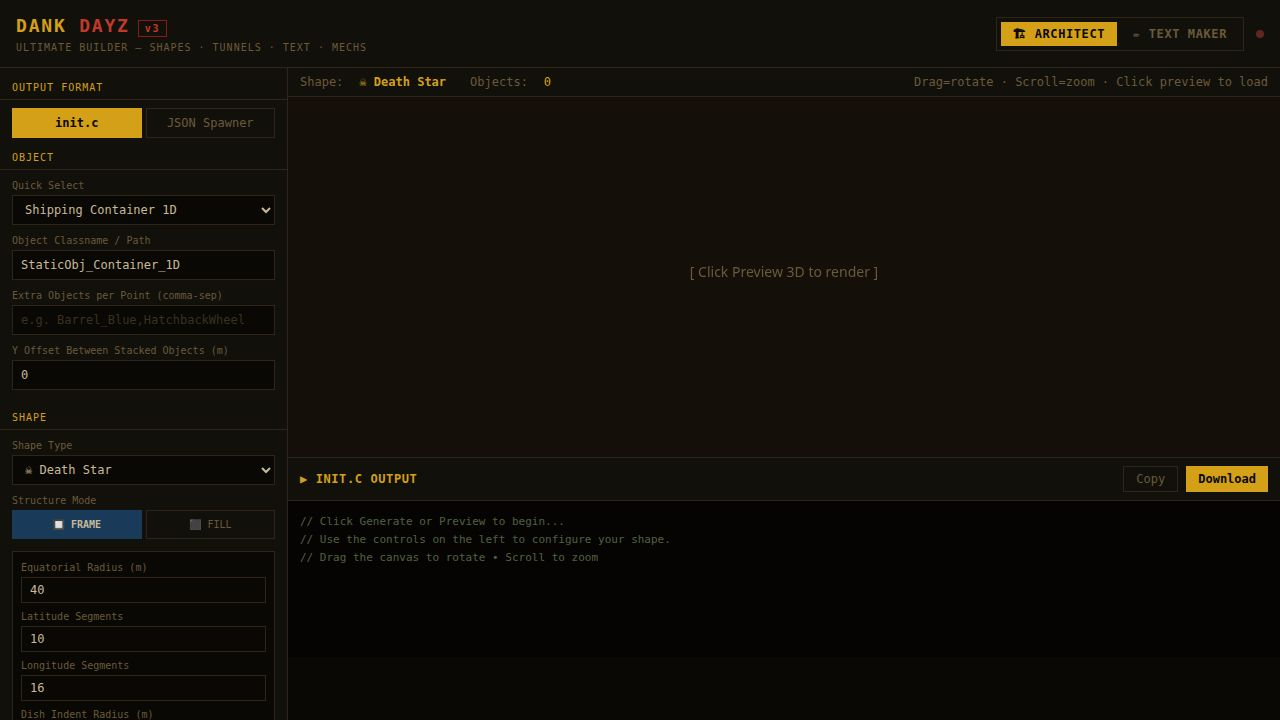
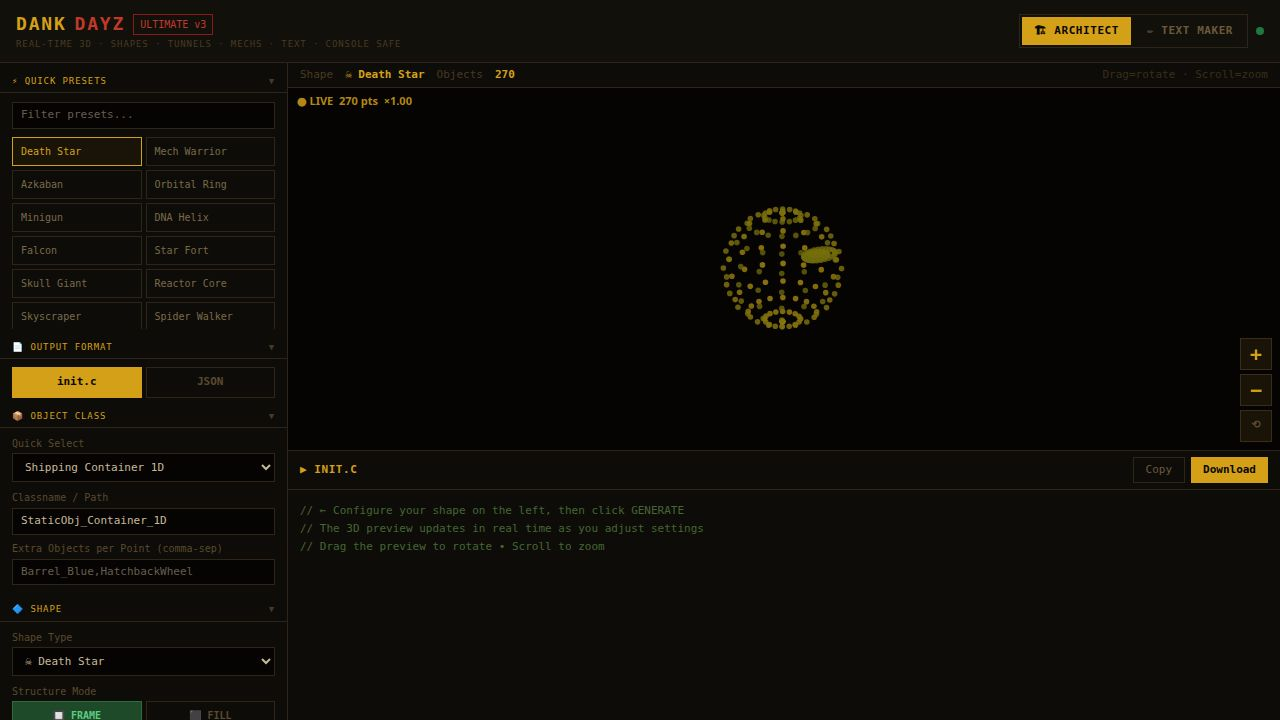
Add new airstrip lights and flat ground objects to the library
Add new console-safe airstrip lights and flat ground objects to the `DAYZ_OBJECTS` array in `dayzObjects.ts`, and improve canvas rendering quality in `App.tsx`.

Replit-Commit-Author: Agent
Replit-Commit-Session-Id: e8ac0cf5-041c-46ec-a23e-44ee5a91d704
Replit-Commit-Checkpoint-Type: full_checkpoint
Replit-Commit-Event-Id: ca44c7ed-00c0-4c1c-b223-7c93e01dd6b0
Replit-Commit-Screenshot-Url: https://storage.googleapis.com/screenshot-production-us-central1/413de5d0-1472-474f-b062-8bbd426900a6/e8ac0cf5-041c-46ec-a23e-44ee5a91d704/GqsRybT
Replit-Helium-Checkpoint-Created: true

diff --git a/artifacts/dayz-builder/src/App.tsx b/artifacts/dayz-builder/src/App.tsx
@@ -66,29 +66,37 @@ function use3DCanvas(canvasRef: React.RefObject<HTMLCanvasElement>) {
   const scaleRef = useRef(1.0);
   const pitchRef = useRef(0);
   const rollRef = useRef(0);
+  // CSS logical dimensions (used for drawing math, canvas.width = W * dpr)
+  const cssDimsRef = useRef({ w: 0, h: 0 });
 
   const draw = useCallback(() => {
     const canvas = canvasRef.current;
     if (!canvas) return;
-    const ctx = canvas.getContext("2d");
+    const ctx = canvas.getContext("2d", { alpha: false });
     if (!ctx) return;
-    const W = canvas.width, H = canvas.height;
+
+    const dpr = window.devicePixelRatio || 1;
+    const W = cssDimsRef.current.w || canvas.width / dpr;
+    const H = cssDimsRef.current.h || canvas.height / dpr;
+    if (W <= 0 || H <= 0) return;
+
     const pts = ptsRef.current;
     const userScale = scaleRef.current;
-    ctx.clearRect(0, 0, W, H);
 
-    if (!pts.length) {
-      ctx.fillStyle = "#060402";
-      ctx.fillRect(0, 0, W, H);
-      ctx.fillStyle = "#3a2e18";
-      ctx.font = "bold 13px 'Courier New'";
-      ctx.textAlign = "center";
-      ctx.fillText("← Configure shape & it renders here in real time", W / 2, H / 2);
-      return;
-    }
-
+    // Scale all drawing to physical pixels for crisp rendering
+    ctx.save();
+    ctx.scale(dpr, dpr);
     ctx.fillStyle = "#060402";
     ctx.fillRect(0, 0, W, H);
+
+    if (!pts.length) {
+      ctx.fillStyle = "#2e2518";
+      ctx.font = "bold 12px 'Courier New'";
+      ctx.textAlign = "center";
+      ctx.fillText("← Configure shape  ·  real-time 3D updates instantly", W / 2, H / 2);
+      ctx.restore();
+      return;
+    }
 
     const rx = rotRef.current.x, ry = rotRef.current.y;
     const cosX = Math.cos(rx), sinX = Math.sin(rx);
@@ -106,52 +114,66 @@ function use3DCanvas(canvasRef: React.RefObject<HTMLCanvasElement>) {
       if (p.y < minY) minY = p.y; if (p.y > maxY) maxY = p.y;
       if (p.z < minZ) minZ = p.z; if (p.z > maxZ) maxZ = p.z;
     });
-    if (!isFinite(minX) || !isFinite(maxX)) return; // all points were NaN/Inf
+    if (!isFinite(minX) || !isFinite(maxX)) { ctx.restore(); return; }
+
     const cx = (minX + maxX) / 2, cy = (minY + maxY) / 2, cz = (minZ + maxZ) / 2;
     const spread = Math.max(maxX - minX, maxY - minY, maxZ - minZ, 1);
-    const baseZoom = Math.min(W, H) * 0.38 / spread * zoom;
+    const baseZoom = Math.min(W, H) * 0.4 / spread * zoom;
 
-    const projected: { sx: number; sy: number; depth: number }[] = pts.map(p => {
+    const projected = pts.map(p => {
+      if (!isFinite(p.x) || !isFinite(p.y) || !isFinite(p.z)) return null;
       let lx = (p.x - cx) * userScale, ly = (p.y - cy) * userScale, lz = (p.z - cz) * userScale;
-      // apply pitch (X rotation for YPR effect)
       const ly2 = ly * cosPitch - lz * sinPitch;
       const lz2 = ly * sinPitch + lz * cosPitch;
-      // apply roll (Z rotation)
       const lx3 = lx * cosRoll + ly2 * sinRoll;
       const ly3 = -lx * sinRoll + ly2 * cosRoll;
       const lz3 = lz2;
-      // camera rotation (drag)
       const rx1 = lx3 * cosY + lz3 * sinY;
       const rz1 = -lx3 * sinY + lz3 * cosY;
       const ry2 = ly3 * cosX - rz1 * sinX;
       const rz2 = ly3 * sinX + rz1 * cosX;
-      const fov = 600;
+      const fov = 700;
       const sc = fov / (fov + rz2 + spread * 1.5);
       return { sx: W / 2 + rx1 * baseZoom * sc, sy: H / 2 - ry2 * baseZoom * sc, depth: rz2 };
-    });
+    }).filter(Boolean) as { sx: number; sy: number; depth: number }[];
 
-    const sorted = projected.map((p, i) => ({ ...p, i })).sort((a, b) => b.depth - a.depth);
+    projected.sort((a, b) => b.depth - a.depth);
     const maxD = spread * 1.5, minD = -spread * 1.5;
+    // Adaptive dot size — smaller when many points, slightly bigger when few
+    const baseDot = Math.max(1.2, Math.min(2.8, 400 / Math.sqrt(pts.length + 1))) * zoom;
 
-    sorted.forEach(({ sx, sy, depth }) => {
+    projected.forEach(({ sx, sy, depth }) => {
       const t = Math.max(0, Math.min(1, (depth - minD) / (maxD - minD)));
-      const r = Math.round(200 * t + 60 * (1 - t));
-      const g = Math.round(160 * t + 90 * (1 - t));
-      const b = Math.round(30 * t + 15 * (1 - t));
-      const alpha = 0.55 + 0.45 * t;
-      const dotR = Math.max(1, 1.6 * zoom);
+      // Front points brighter gold/amber, back points darker brown
+      const r = Math.round(210 * t + 55 * (1 - t));
+      const g = Math.round(155 * t + 80 * (1 - t));
+      const b = Math.round(20 * t + 8 * (1 - t));
+      const alpha = 0.6 + 0.4 * t;
       ctx.beginPath();
-      ctx.arc(sx, sy, dotR, 0, Math.PI * 2);
+      ctx.arc(sx, sy, baseDot, 0, Math.PI * 2);
       ctx.fillStyle = `rgba(${r},${g},${b},${alpha})`;
       ctx.fill();
     });
 
-    // LIVE badge
-    ctx.fillStyle = "rgba(212,160,23,0.8)";
-    ctx.font = "bold 10px 'Courier New'";
+    // HUD overlay
+    ctx.fillStyle = "rgba(212,160,23,0.85)";
+    ctx.font = `bold 11px 'Courier New'`;
     ctx.textAlign = "left";
-    ctx.fillText(`● LIVE  ${pts.length} pts`, 8, 16);
+    ctx.fillText(`● LIVE  ${pts.length.toLocaleString()} pts  ×${zoom.toFixed(2)}`, 9, 17);
+
+    ctx.restore();
   }, [canvasRef]);
+
+  const zoomStep = useCallback((factor: number) => {
+    zoomRef.current = Math.max(0.1, Math.min(8, zoomRef.current * factor));
+    if (!autoRef.current) draw();
+  }, [draw]);
+
+  const resetZoom = useCallback(() => {
+    zoomRef.current = 1.0;
+    rotRef.current = { x: -0.4, y: 0.5 };
+    if (!autoRef.current) draw();
+  }, [draw]);
 
   const startAutoRotate = useCallback(() => {
     autoRef.current = true;
@@ -191,7 +213,7 @@ function use3DCanvas(canvasRef: React.RefObject<HTMLCanvasElement>) {
     const onUp = () => { dragRef.current.dragging = false; };
     const onWheel = (e: WheelEvent) => {
       e.preventDefault();
-      zoomRef.current = Math.max(0.15, zoomRef.current * (e.deltaY > 0 ? 0.88 : 1.12));
+      zoomRef.current = Math.max(0.1, Math.min(8, zoomRef.current * (e.deltaY > 0 ? 0.88 : 1.12)));
       if (!autoRef.current) draw();
     };
     const onTouch = (e: TouchEvent) => {
@@ -222,39 +244,36 @@ function use3DCanvas(canvasRef: React.RefObject<HTMLCanvasElement>) {
     };
   }, [draw]);
 
-  // Resize observer — wrap in rAF to avoid "ResizeObserver loop limit exceeded"
+  // Resize observer — DPR-aware sizing prevents blurriness on HiDPI screens
   useEffect(() => {
     const canvas = canvasRef.current;
     if (!canvas || !canvas.parentElement) return;
     let rafId: number | null = null;
+    const resizeCanvas = (parent: Element) => {
+      const rect = parent.getBoundingClientRect();
+      if (rect.width <= 0 || rect.height <= 0) return;
+      const dpr = window.devicePixelRatio || 1;
+      cssDimsRef.current = { w: rect.width, h: rect.height };
+      canvas.width = Math.round(rect.width * dpr);
+      canvas.height = Math.round(rect.height * dpr);
+      draw();
+    };
     const obs = new ResizeObserver(() => {
       if (rafId !== null) cancelAnimationFrame(rafId);
       rafId = requestAnimationFrame(() => {
-        const parent = canvas.parentElement;
-        if (!parent) return;
-        const rect = parent.getBoundingClientRect();
-        if (rect.width > 0 && rect.height > 0) {
-          canvas.width = rect.width;
-          canvas.height = rect.height;
-          draw();
-        }
+        if (canvas.parentElement) resizeCanvas(canvas.parentElement);
         rafId = null;
       });
     });
     obs.observe(canvas.parentElement);
-    const rect = canvas.parentElement.getBoundingClientRect();
-    if (rect.width > 0 && rect.height > 0) {
-      canvas.width = rect.width;
-      canvas.height = rect.height;
-    }
-    draw();
+    resizeCanvas(canvas.parentElement);
     return () => {
       obs.disconnect();
       if (rafId !== null) cancelAnimationFrame(rafId);
     };
   }, [draw]);
 
-  return { updatePoints, startAutoRotate, stopAutoRotate, draw };
+  return { updatePoints, startAutoRotate, stopAutoRotate, draw, zoomStep, resetZoom };
 }
 
 // ─── QUICK PRESETS ────────────────────────────────────────────────────────────
@@ -331,7 +350,7 @@ export default function App() {
   const [textOutput, setTextOutput] = useState("");
 
   const canvasRef = useRef<HTMLCanvasElement>(null);
-  const { updatePoints, startAutoRotate, stopAutoRotate } = use3DCanvas(canvasRef);
+  const { updatePoints, startAutoRotate, stopAutoRotate, zoomStep, resetZoom } = use3DCanvas(canvasRef);
   const debounceRef = useRef<ReturnType<typeof setTimeout> | null>(null);
 
   // ── COMPUTE SHAPE POINTS ──────────────────────────────────────────────────
@@ -555,7 +574,19 @@ export default function App() {
 
           {/* 3D Canvas */}
           <div className="relative bg-[#060402]" style={{ flex: "0 0 55%", minHeight: 200 }}>
-            <canvas ref={canvasRef} className="w-full h-full block" />
+            <canvas ref={canvasRef} className="w-full h-full block" style={{ imageRendering: "crisp-edges" }} />
+            {/* Zoom controls */}
+            <div className="absolute bottom-2 right-2 flex flex-col gap-1">
+              <button onClick={() => zoomStep(1.25)}
+                className="w-8 h-8 flex items-center justify-center bg-[#1a1408] border border-[#3a2e18] text-[#d4a017] text-xl font-black rounded-sm hover:bg-[#2e2518] hover:border-[#d4a017] transition-all leading-none select-none"
+                title="Zoom in (also: scroll up)">+</button>
+              <button onClick={() => zoomStep(0.8)}
+                className="w-8 h-8 flex items-center justify-center bg-[#1a1408] border border-[#3a2e18] text-[#d4a017] text-xl font-black rounded-sm hover:bg-[#2e2518] hover:border-[#d4a017] transition-all leading-none select-none"
+                title="Zoom out (also: scroll down)">−</button>
+              <button onClick={resetZoom}
+                className="w-8 h-8 flex items-center justify-center bg-[#1a1408] border border-[#3a2e18] text-[#5a4a2e] text-[11px] font-bold rounded-sm hover:bg-[#2e2518] hover:text-[#c8b99a] hover:border-[#6a5a3a] transition-all select-none"
+                title="Reset zoom & rotation">⟲</button>
+            </div>
           </div>
 
           {/* Output */}
@@ -847,8 +878,26 @@ function TextSidebar(p: any) {
         <Slider label="Scale" value={p.textScale} min={0.1} max={10} step={0.1} onChange={p.setTextScale} />
       </div>
 
-      <Sec>📦 Object</Sec>
+      <Sec>📦 Object — Quick Picks ⚡</Sec>
       <div className="px-3">
+        {/* Airstrip light quick-selects — best for spelling visible from above */}
+        <div className="text-[9px] text-[#8a6a0f] mb-1.5 uppercase tracking-wider">✈ Airstrip Lights (best for spelling)</div>
+        <div className="grid grid-cols-1 gap-1 mb-3">
+          {[
+            ["PAPI Light ⭐", "StaticObj_Airfield_Light_PAPI1"],
+            ["Centreline Light", "StaticObj_Airfield_Light_Centreline_01"],
+            ["Edge Light", "StaticObj_Airfield_Light_Edge_01"],
+            ["Threshold Light", "StaticObj_Airfield_Light_Threshold_01"],
+            ["Taxiway Light", "StaticObj_Airfield_Light_Taxiway_01"],
+            ["Strobe Light", "StaticObj_Airfield_Light_Strobe_01"],
+          ].map(([label, val]) => (
+            <button key={val} onClick={() => p.setTextObj(val)}
+              className={`text-left text-[10px] px-2 py-1.5 rounded-sm border truncate transition-all ${p.textObj === val ? "border-[#d4a017] text-[#d4a017] bg-[#1a1408]" : "border-[#2e2518] text-[#6a5a3a] hover:border-[#6a5a3a] hover:text-[#c8b99a]"}`}>
+              {label}
+            </button>
+          ))}
+        </div>
+        <div className="text-[9px] text-[#5a4a2e] mb-1.5 uppercase tracking-wider">All objects</div>
         <select className="w-full bg-[#060402] border border-[#2e2518] text-[#c8b99a] text-[11px] px-2 py-1.5 rounded-sm mb-2 focus:outline-none focus:border-[#8a6a0f]"
           value={p.textObj} onChange={(e: any) => p.setTextObj(e.target.value)}>
           {OBJECT_GROUPS.map((group: string) => (
@@ -859,7 +908,7 @@ function TextSidebar(p: any) {
             </optgroup>
           ))}
         </select>
-        <Lbl>Custom Classname</Lbl>
+        <Lbl>Custom Classname (type any valid DayZ class)</Lbl>
         <input type="text" value={p.textObj} onChange={(e: any) => p.setTextObj(e.target.value)}
           className="w-full bg-[#060402] border border-[#2e2518] text-[#c8b99a] text-[11px] px-2 py-1.5 rounded-sm mb-2 focus:outline-none focus:border-[#8a6a0f]"
         />

diff --git a/artifacts/dayz-builder/src/lib/dayzObjects.ts b/artifacts/dayz-builder/src/lib/dayzObjects.ts
@@ -102,6 +102,40 @@ export const DAYZ_OBJECTS: DayzObject[] = [
   { value: "Land_RadioTower_1_DE", label: "Radio Tower", group: "Props" },
   { value: "Land_WaterTower_01_DE", label: "Water Tower", group: "Props" },
   { value: "Land_WaterTower_02_DE", label: "Water Tower 2", group: "Props" },
+
+  // ✈ Airstrip / Runway Lights  (from TaxiRank JSON — console-safe)
+  { value: "StaticObj_Airfield_Light_PAPI1", label: "✈ PAPI Light (bright, spelling!)", group: "Airstrip Lights" },
+  { value: "StaticObj_Airfield_Light_Threshold_01", label: "✈ Threshold Light 1", group: "Airstrip Lights" },
+  { value: "StaticObj_Airfield_Light_Threshold_02", label: "✈ Threshold Light 2", group: "Airstrip Lights" },
+  { value: "StaticObj_Airfield_Light_Centreline_01", label: "✈ Centreline Light 1", group: "Airstrip Lights" },
+  { value: "StaticObj_Airfield_Light_Centreline_02", label: "✈ Centreline Light 2", group: "Airstrip Lights" },
+  { value: "StaticObj_Airfield_Light_Edge_01", label: "✈ Edge Light 1", group: "Airstrip Lights" },
+  { value: "StaticObj_Airfield_Light_Edge_02", label: "✈ Edge Light 2", group: "Airstrip Lights" },
+  { value: "StaticObj_Airfield_Light_Taxiway_01", label: "✈ Taxiway Light 1", group: "Airstrip Lights" },
+  { value: "StaticObj_Airfield_Light_Taxiway_02", label: "✈ Taxiway Light 2", group: "Airstrip Lights" },
+  { value: "StaticObj_Airfield_Light_Approach_01", label: "✈ Approach Light 1", group: "Airstrip Lights" },
+  { value: "StaticObj_Airfield_Light_Approach_02", label: "✈ Approach Light 2", group: "Airstrip Lights" },
+  { value: "StaticObj_Airfield_Light_Strobe_01", label: "✈ Strobe Light", group: "Airstrip Lights" },
+  { value: "StaticObj_Airfield_Light_End_01", label: "✈ Runway End Light 1", group: "Airstrip Lights" },
+  { value: "StaticObj_Airfield_Light_End_02", label: "✈ Runway End Light 2", group: "Airstrip Lights" },
+
+  // 🔲 Flat / Ground-Level Objects (great for floors, pads, spelling)
+  { value: "Land_ConcretePath_F_DE", label: "Flat Concrete Path", group: "Flat Objects" },
+  { value: "Land_ConcretePath_Corner_DE", label: "Flat Concrete Corner", group: "Flat Objects" },
+  { value: "Land_Asphalt_F_DE", label: "Flat Asphalt Tile", group: "Flat Objects" },
+  { value: "Land_Asphalt_Corner_DE", label: "Flat Asphalt Corner", group: "Flat Objects" },
+  { value: "Land_Asphalt_Cross_DE", label: "Flat Asphalt Cross", group: "Flat Objects" },
+  { value: "Land_Asphalt_T_DE", label: "Flat Asphalt T-Junction", group: "Flat Objects" },
+  { value: "Land_Runway_F_DE", label: "Flat Runway Strip", group: "Flat Objects" },
+  { value: "Land_Runway_Marking_DE", label: "Flat Runway Marking", group: "Flat Objects" },
+  { value: "Land_Pavement_DE", label: "Flat Pavement Tile", group: "Flat Objects" },
+  { value: "Land_Pavement_Corner_DE", label: "Flat Pavement Corner", group: "Flat Objects" },
+  { value: "Pallet_EP1", label: "Flat Pallet", group: "Flat Objects" },
+  { value: "Land_Pier_DE", label: "Flat Pier Section", group: "Flat Objects" },
+  { value: "Land_GarageFloor_DE", label: "Flat Garage Floor", group: "Flat Objects" },
+  { value: "Land_TarmacFloor_DE", label: "Flat Tarmac Floor", group: "Flat Objects" },
+  { value: "Land_ConcreteSlab_DE", label: "Flat Concrete Slab", group: "Flat Objects" },
+  { value: "Land_Puddle_DE", label: "Flat Puddle/Water", group: "Flat Objects" },
 ];
 
 export const OBJECT_GROUPS = [...new Set(DAYZ_OBJECTS.map(o => o.group))];
